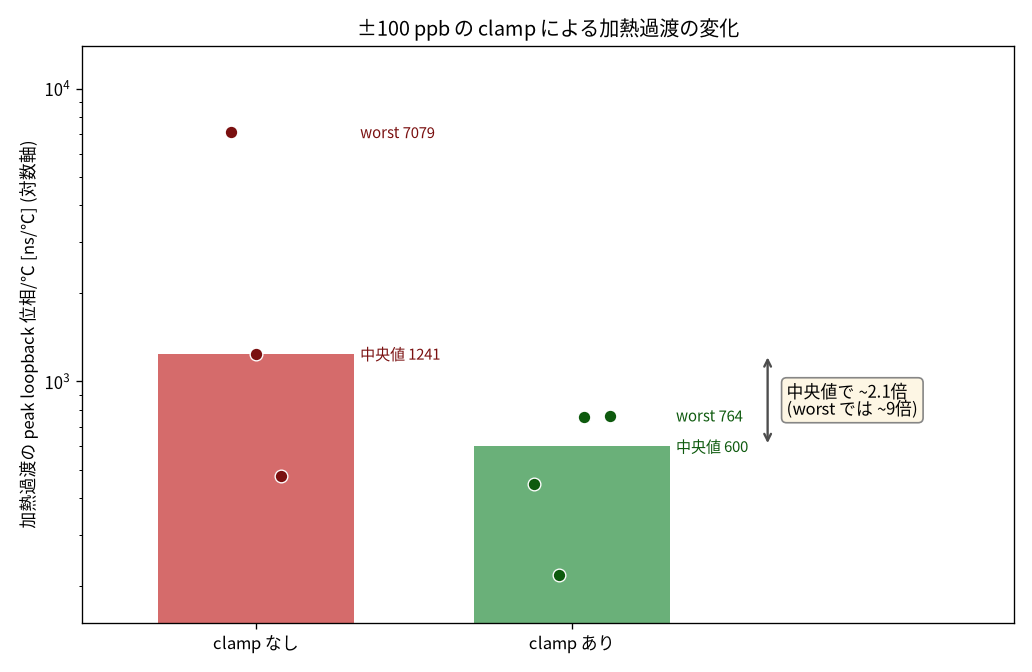
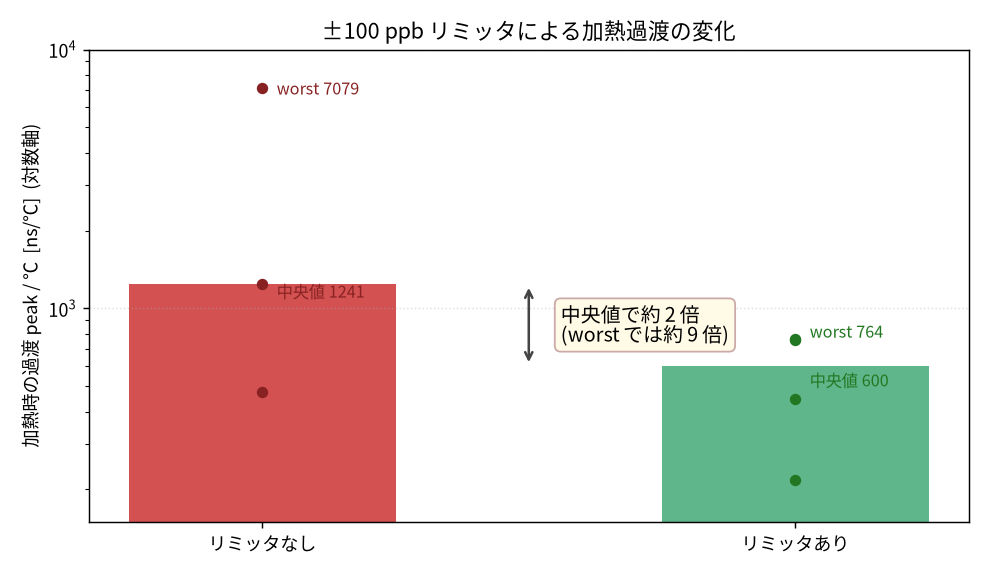
docs(precision): clamp をリミッタに統一 + 最悪ステップ波形図 + fig11 に区間σ段
- 用語: clamp を「±100 ppb で頭打ちにするリミッタ」として初出で定義し、
  本文と fig10 のラベルを リミッタ に統一。
- fig10b (新規): リミッタなし/ありそれぞれの最悪加熱ステップの実時間波形。
  なし +8640/−4656 ns (ΔT1.2℃) に対し あり peak 592 ns (ΔT0.78℃、
  764 ns/℃)、±100 ns 帯へ約 35 秒で復帰。
- fig10_clamp.py: 描画済み PNG と食い違っていた古い per-event 値を
  analyze.py の検証値 ({474,1241,7079} / {218,447,754,764}) に修正。
- fig11: 区間 (30 分切替単位、本文で定義) ごとの σ を第 3 段の棒で追加し、
  切替のたびに σ が下がる/戻る改善の交互パターンを一目にした。
  絶対値の 8.6µs→480ns の比較は最悪ステップ実数 (592 ns) に合わせ修正。

Claude-Session: https://claude.ai/code/session_01QA3SZ4k1hmnnVeG51UZWBZ

diff --git a/logs/precision-rework/fig10_clamp.py b/logs/precision-rework/fig10_clamp.py
@@ -1,42 +1,60 @@
 #!/usr/bin/env python3
-"""fig10: clamp の加熱 A/B。過渡 peak/℃ が中央値で約8倍・worst で約14倍縮むのを一目で。
-検証済みの per-event 値から作る (unclamped 中央値3085/worst5573、clamped 397/400/558)。log 軸で比率を直感的に。"""
+"""fig10: リミッタ (±100 ppb) の加熱 A/B。過渡 peak/℃ が中央値で約 2 倍、worst で約 9 倍縮む。
+per-event 値は analyze.py の出力 (速い加熱ステップのみ):
+  リミッタなし = s5/stage5-heat.log の 3 イベント {474, 1241, 7079}
+  リミッタあり = s5/clamped-heat.log の 4 イベント {218, 447, 754, 764}
+log 軸で比率を直感的に。
+usage: uv run --with matplotlib python3 logs/precision-rework/fig10_clamp.py
+"""
 import os
-import matplotlib; matplotlib.use("Agg")
+import statistics as st
+
+import matplotlib
+matplotlib.use("Agg")
 import matplotlib.pyplot as plt
 from matplotlib import font_manager
+
 for fp in ("/usr/share/fonts/noto-cjk/NotoSansCJK-Regular.ttc",):
     if os.path.exists(fp):
-        try: font_manager.fontManager.addfont(fp)
-        except: pass
-plt.rcParams["font.family"]="Noto Sans CJK JP"; plt.rcParams["axes.unicode_minus"]=False
-OUT=os.path.join(os.path.dirname(os.path.dirname(os.path.dirname(os.path.abspath(__file__)))),"docs","report","precision-ladder","precision-figs")
+        try:
+            font_manager.fontManager.addfont(fp)
+        except Exception:
+            pass
+plt.rcParams["font.family"] = "Noto Sans CJK JP"
+plt.rcParams["axes.unicode_minus"] = False
+OUT = os.path.join(os.path.dirname(os.path.dirname(os.path.dirname(os.path.abspath(__file__)))),
+                   "docs", "report", "precision-ladder", "precision-figs")
 
-unc_med, unc_worst = 3085.0, 5573.0          # clamp なし (温度FF が steering に出口制限なし)
-cl = [397.0, 400.0, 558.0]                    # clamp あり (±100 ppb 制限)
-cl_med = 400.0
+unc = [474.0, 1241.0, 7079.0]        # リミッタなし (出口制限なし)
+cl = [218.0, 447.0, 754.0, 764.0]    # リミッタあり (±100 ppb)
+unc_med, cl_med = st.median(unc), st.median(cl)
 
-fig, ax = plt.subplots(figsize=(7.6,4.4))
+fig, ax = plt.subplots(figsize=(7.6, 4.4))
 ax.set_yscale("log")
-# 棒: 中央値
-ax.bar([0],[unc_med],width=0.5,color="#c33",alpha=0.85,label="clamp なし")
-ax.bar([1],[cl_med],width=0.5,color="#4a7",alpha=0.85,label="clamp あり (±100 ppb)")
-# 個別点
-ax.plot([0,0],[unc_med,unc_worst],"-",color="#822",lw=1)
-ax.scatter([0,0],[unc_med,unc_worst],color="#822",zorder=3,s=28)
-ax.annotate("worst 5573",(0,unc_worst),xytext=(8,0),textcoords="offset points",va="center",fontsize=9,color="#822")
-ax.annotate("中央値 3085",(0,unc_med),xytext=(8,-2),textcoords="offset points",va="center",fontsize=9,color="#822")
-ax.scatter([1]*len(cl),cl,color="#272",zorder=3,s=28)
-ax.annotate("397 / 400 / 558",(1,cl_med),xytext=(8,0),textcoords="offset points",va="center",fontsize=9,color="#272")
-# 比率の矢印注記
-ax.annotate("", xy=(0.5,cl_med), xytext=(0.5,unc_med),
-            arrowprops=dict(arrowstyle="<->",color="#444",lw=1.4))
-ax.text(0.56,(unc_med*cl_med)**0.5,"中央値で約 8 倍\n(worst では約 14 倍)",fontsize=11,va="center",
-        bbox=dict(boxstyle="round",fc="#fffbe6",ec="#caa"))
-ax.set_xticks([0,1]); ax.set_xticklabels(["clamp なし","clamp あり"])
+ax.bar([0], [unc_med], width=0.5, color="#c33", alpha=0.85)
+ax.bar([1], [cl_med], width=0.5, color="#4a7", alpha=0.85)
+ax.scatter([0] * len(unc), unc, color="#822", zorder=3, s=28)
+ax.annotate("worst 7079", (0, max(unc)), xytext=(8, 0), textcoords="offset points",
+            va="center", fontsize=9, color="#822")
+ax.annotate(f"中央値 {unc_med:.0f}", (0, unc_med), xytext=(8, -4),
+            textcoords="offset points", va="center", fontsize=9, color="#822")
+ax.scatter([1] * len(cl), cl, color="#272", zorder=3, s=28)
+ax.annotate("worst 764", (1, max(cl)), xytext=(8, 4), textcoords="offset points",
+            va="center", fontsize=9, color="#272")
+ax.annotate(f"中央値 {cl_med:.0f}", (1, cl_med), xytext=(8, -8),
+            textcoords="offset points", va="center", fontsize=9, color="#272")
+ax.annotate("", xy=(0.5, cl_med), xytext=(0.5, unc_med),
+            arrowprops=dict(arrowstyle="<->", color="#444", lw=1.4))
+ax.text(0.56, (unc_med * cl_med) ** 0.5, "中央値で約 2 倍\n(worst では約 9 倍)",
+        fontsize=11, va="center",
+        bbox=dict(boxstyle="round", fc="#fffbe6", ec="#caa"))
+ax.set_xticks([0, 1])
+ax.set_xticklabels(["リミッタなし", "リミッタあり"])
 ax.set_ylabel("加熱時の過渡 peak / ℃  [ns/℃]  (対数軸)")
-ax.set_ylim(200,8000)
-ax.set_title("出力 steering に ±100 ppb の制限を入れると、加熱の過渡が中央値で約 8 倍縮む")
-ax.grid(ls=":",alpha=0.4,axis="y")
-fig.tight_layout(); fig.savefig(os.path.join(OUT,"fig10-clamp-ab.png"),dpi=110); plt.close(fig)
-print("wrote fig10-clamp-ab.png (median %.0f vs %.0f = %.1fx; worst %.0f = %.1fx)"%(unc_med,cl_med,unc_med/cl_med,unc_worst,unc_worst/cl_med))
+ax.set_ylim(150, 10000)
+ax.set_title("±100 ppb リミッタによる加熱過渡の変化")
+ax.grid(ls=":", alpha=0.4, axis="y")
+fig.tight_layout()
+fig.savefig(os.path.join(OUT, "fig10-clamp-ab.png"), dpi=130)
+print("wrote fig10-clamp-ab.png med %.0f->%.0f (%.1fx) worst %.0f->%.0f (%.1fx)"
+      % (unc_med, cl_med, unc_med / cl_med, max(unc), max(cl), max(unc) / max(cl)))

diff --git a/logs/20260705-tempff-abab/fig_abab.py b/logs/20260705-tempff-abab/fig_abab.py
@@ -1,7 +1,7 @@
 #!/usr/bin/env python3
 """fig11-tempff-abab: 温度フィードフォワードだけを 30 分ごとに on/off 交互切替した
-夜通し運転の可視化。上: firmware の loopback 位相 + 基板温度、下: オシロ実測
-(GPS-R PPS vs 出力エッジ差)。セグメントごとの σ を帯の上に注記する。
+夜通し運転の可視化。上: firmware の loopback 位相 + 基板温度、中: オシロ実測
+(GPS-R PPS vs 出力エッジ差)、下: 区間 (30 分の切替のひとまとまり) ごとの σ。
 各セグメント冒頭 5 分は切替の整定として統計から除外する。温度は RP2040 内蔵センサを ℃ に換算。
 usage: uv run --with matplotlib python3 logs/20260705-tempff-abab/fig_abab.py
 """
@@ -84,10 +84,11 @@ sc_segs = seg_stats(shots)
 def temp_c(raw):
     return 27 - ((raw / 256) * 3.3 / 4096 - 0.706) / 0.001721
 
-fig, (ax1, ax2) = plt.subplots(2, 1, figsize=(11, 6.8), sharex=True,
-                               gridspec_kw={"hspace": 0.14})
+fig, (ax1, ax2, ax3) = plt.subplots(3, 1, figsize=(11, 8.2), sharex=True,
+                                    gridspec_kw={"hspace": 0.15,
+                                                 "height_ratios": [3, 3, 1.9]})
 h0 = c_first
-YLIM = 640  # σ 注記の行のぶん上に余白を取る
+YLIM = 560  # あり/なし ラベルの行のぶん上に余白を取る
 
 def shade(ax):
     for s, c0, c1 in segs:
@@ -97,11 +98,8 @@ def shade(ax):
 def annotate(ax, seg_list):
     for s, c0, c1, vals in seg_list:
         x = ((c0 + c1) / 2 - h0) / 3600
-        ax.text(x, 615, "あり" if s else "なし",
+        ax.text(x, 528, "あり" if s else "なし",
                 ha="center", va="top", fontsize=8.5, fontweight="bold",
-                color=("#1e7a2e" if s else "#a83226"))
-        ax.text(x, 500, f"σ {st.pstdev(vals):.0f}",
-                ha="center", va="top", fontsize=8.5,
                 color=("#1e7a2e" if s else "#a83226"))
 
 # 上段: loopback 位相 + 温度
@@ -112,7 +110,7 @@ ax1.axhline(0, color="gray", lw=0.5)
 ax1.set_ylabel("loopback 位相 [ns]")
 ax1.set_ylim(-YLIM, YLIM)
 ax1.set_yticks(range(-400, 401, 200))
-annotate(ax1, hw_segs)
+annotate(ax1, hw_segs)  # あり/なし の帯ラベルは最上段だけに置く
 axt = ax1.twinx()
 t_step = max(1, len(rows) // 2000)
 axt.plot(xs[::t_step], [temp_c(t) for _, _, t in rows][::t_step],
@@ -127,10 +125,29 @@ ax2.plot(xs2, [v for _, v in shots], ".", ms=1.2, color="#444444", alpha=0.45)
 shade(ax2)
 ax2.axhline(0, color="gray", lw=0.5)
 ax2.set_ylabel("オシロ実測 出力−GPS-R [ns]")
-ax2.set_xlabel("経過時間 [h]")
 ax2.set_ylim(-YLIM, YLIM)
 ax2.set_yticks(range(-400, 401, 200))
-annotate(ax2, sc_segs)
+
+# 下段: 区間ごとの σ。切替のたびに下がる/戻るが一目で見えるように棒で並べる
+shade(ax3)
+for s3, c0, c1, vals in sc_segs:
+    x0, x1 = (c0 - h0) / 3600, (c1 - h0) / 3600
+    ax3.bar((x0 + x1) / 2, st.pstdev(vals), width=(x1 - x0) * 0.86,
+            color=("#2a9d3a" if s3 else "#c0392b"), alpha=0.65, lw=0,
+            label="_")
+hw_pts = [(((c0 + c1) / 2 - h0) / 3600, st.pstdev(vals)) for _, c0, c1, vals in hw_segs]
+ax3.plot([x for x, _ in hw_pts], [y for _, y in hw_pts], "o-", ms=4.5, lw=0.9,
+         color="#222222", alpha=0.8)
+from matplotlib.patches import Patch
+from matplotlib.lines import Line2D
+ax3.legend(handles=[Patch(color="#2a9d3a", alpha=0.65, label="オシロ実測 (あり)"),
+                    Patch(color="#c0392b", alpha=0.65, label="オシロ実測 (なし)"),
+                    Line2D([], [], marker="o", ms=4.5, lw=0.9, color="#222222",
+                           label="loopback 位相")],
+           loc="upper right", fontsize=8, ncols=3)
+ax3.set_ylabel("区間ごとの σ [ns]")
+ax3.set_xlabel("経過時間 [h]")
+ax3.set_ylim(0, 200)
 # 取得の穴 (scope 復旧作業) を正直に注記する。近接する穴は 1 つに束ねる
 raw_gaps = [(a, b) for (a, _), (b, _) in zip(shots, shots[1:]) if b - a > 240]
 gaps = []

diff --git a/logs/precision-rework/fig10b_clamp_transient.py b/logs/precision-rework/fig10b_clamp_transient.py
@@ -1,0 +1,75 @@
+#!/usr/bin/env python3
+"""fig10b: リミッタあり/なし、それぞれの最悪加熱ステップの過渡を時系列で並べる。
+なし = s5/stage5-heat.log の c268 イベント (ΔT 1.22℃、peak +8640/−4656 ns)。
+あり = s5/clamped-heat.log の c442 イベント (ΔT 0.78℃、peak 592 ns)。
+左は同一軸で桁の違いを、右はあり側だけを拡大して形を見せる。
+usage: uv run --with matplotlib python3 logs/precision-rework/fig10b_clamp_transient.py
+"""
+import os
+import re
+
+import matplotlib
+matplotlib.use("Agg")
+import matplotlib.pyplot as plt
+from matplotlib import font_manager
+
+for fp in ("/usr/share/fonts/noto-cjk/NotoSansCJK-Regular.ttc",):
+    if os.path.exists(fp):
+        try:
+            font_manager.fontManager.addfont(fp)
+        except Exception:
+            pass
+plt.rcParams["font.family"] = "Noto Sans CJK JP"
+plt.rcParams["axes.unicode_minus"] = False
+
+HERE = os.path.dirname(os.path.abspath(__file__))
+OUT = os.path.join(os.path.dirname(os.path.dirname(HERE)),
+                   "docs", "report", "precision-ladder", "precision-figs")
+PAT = re.compile(r"count=(\d+) .*hwphase_ns=(-?\d+)")
+
+
+def series(path, c_base, c_lo, c_hi):
+    out = []
+    for ln in open(os.path.join(HERE, path), errors="replace"):
+        m = PAT.search(ln)
+        if m:
+            c = int(m.group(1))
+            if c_lo <= c <= c_hi:
+                out.append((c - c_base, int(m.group(2))))
+    return out
+
+
+unc = series("s5/stage5-heat.log", 268, 268 - 15, 268 + 75)
+# あり側は加熱を連打した中の 1 発 (c442)。直前ステップの残りが入らないよう窓は −5s から
+cl = series("s5/clamped-heat.log", 442, 442 - 5, 442 + 75)
+
+fig, (ax, axz) = plt.subplots(1, 2, figsize=(11.4, 4.6),
+                              gridspec_kw={"width_ratios": [1.25, 1], "wspace": 0.22})
+ax.axhline(0, color="gray", lw=0.6)
+ax.plot([t for t, _ in unc], [h for _, h in unc], lw=1.6, color="#c0392b",
+        label="リミッタなし (ΔT≈1.2℃)")
+ax.plot([t for t, _ in cl], [h for _, h in cl], lw=1.6, color="#2a7d3a",
+        label="リミッタあり ±100 ppb (ΔT≈0.8℃)")
+ax.set_xlabel("加熱開始からの時間 [s]")
+ax.set_ylabel("loopback 位相 [ns]")
+ax.set_title("それぞれの最悪ステップを同一軸で", fontsize=11)
+ax.legend(loc="upper right", fontsize=9)
+ax.annotate("+8640 ns", (13, 8640), xytext=(-12, 8200), fontsize=9, color="#c0392b")
+ax.annotate("−4656 ns", (26, -4656), xytext=(33, -4900), fontsize=9, color="#c0392b")
+
+# 右: あり側だけを拡大して形を見せる
+axz.axhline(0, color="gray", lw=0.5)
+axz.axhspan(-100, 100, color="#888888", alpha=0.15, lw=0)
+axz.plot([t for t, _ in cl], [h for _, h in cl], lw=1.4, color="#2a7d3a")
+axz.set_ylim(-700, 700)
+axz.set_xlim(-5, 75)
+axz.set_xlabel("加熱開始からの時間 [s]")
+axz.set_title("リミッタあり側の拡大 (灰帯 = ±100 ns)", fontsize=11)
+axz.annotate("peak 592 ns", (6, 592), xytext=(14, 560), fontsize=9, color="#2a7d3a")
+fig.suptitle("最悪の加熱ステップの過渡: リミッタなし対あり", y=1.02)
+
+fig.savefig(os.path.join(OUT, "fig10b-clamp-transient.png"), dpi=130,
+            bbox_inches="tight")
+print("saved fig10b-clamp-transient.png",
+      f"unc n={len(unc)} peak={max(abs(h) for _, h in unc)}",
+      f"cl n={len(cl)} peak={max(abs(h) for _, h in cl)}")
